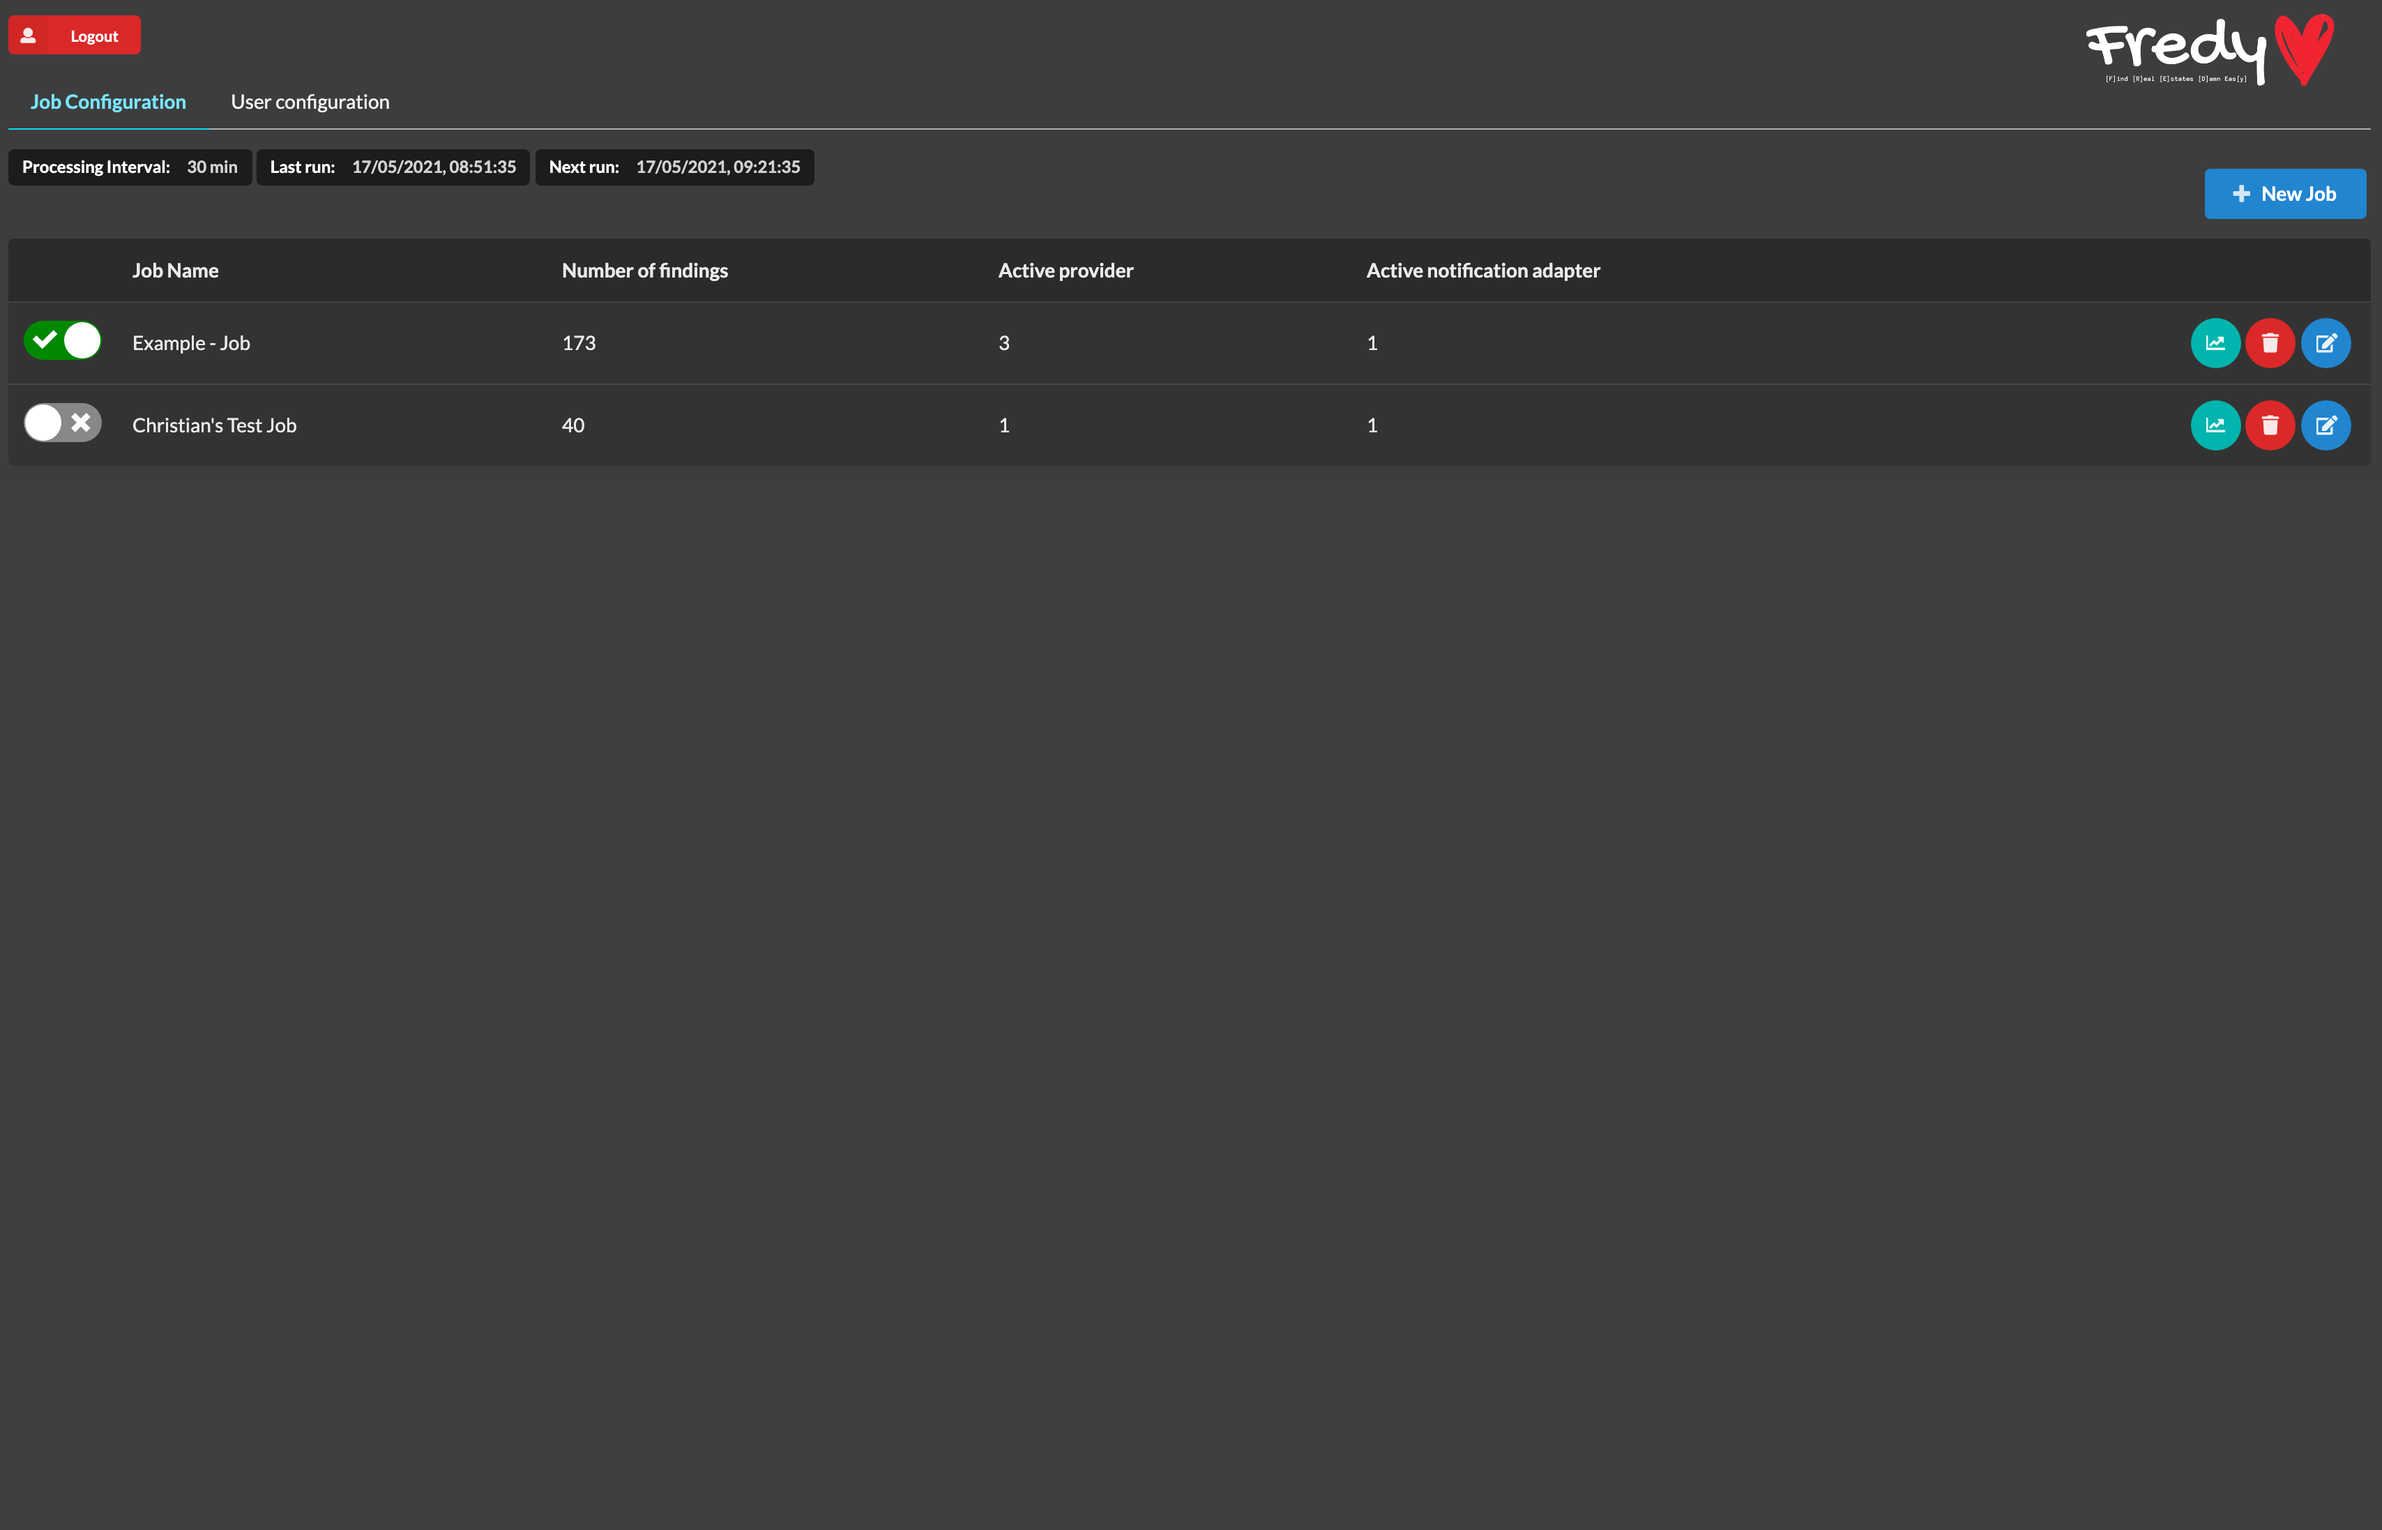
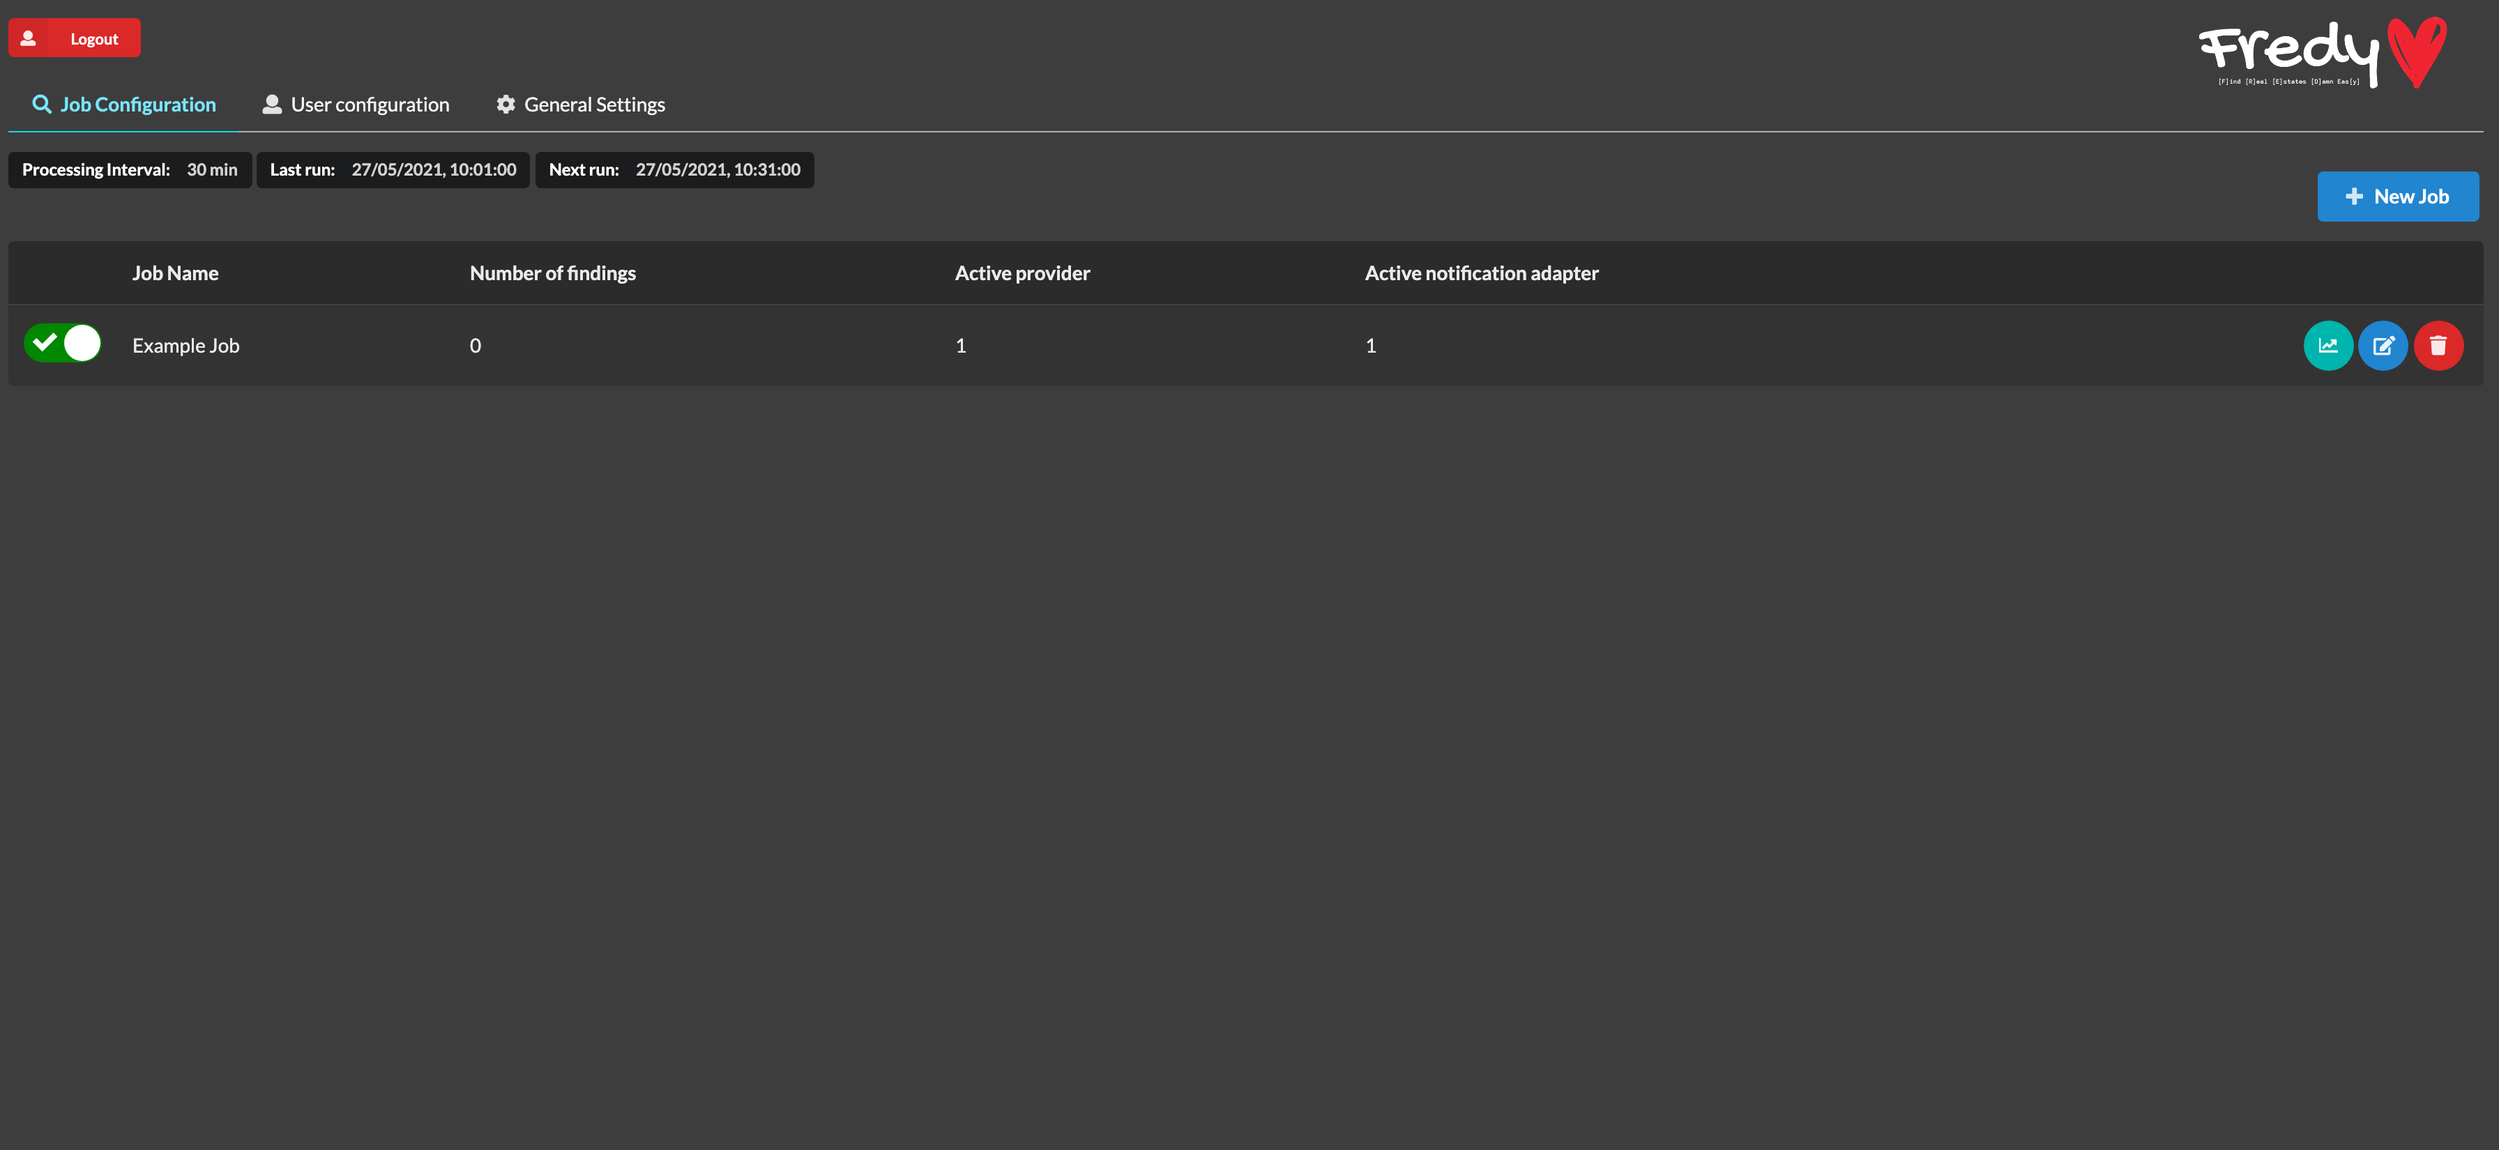
adding tests, making use of new working hours

diff --git a/index.js b/index.js
@@ -13,6 +13,8 @@ const jobStorage = require('./lib/services/storage/jobStorage');
 const { setLastJobExecution } = require('./lib/services/storage/listingsStorage');
 const FredyRuntime = require('./lib/FredyRuntime');
 
+const { duringWorkingHoursOrNotSet } = require('./lib/utils');
+
 //starting the api service
 require('./lib/api/api');
 
@@ -24,31 +26,39 @@ console.log(`Started Fredy successfully. Ui can be accessed via http://localhost
 /* eslint-enable no-console */
 setInterval(
   (function exec() {
-    config.lastRun = Date.now();
-    jobStorage
-      .getJobs()
-      .filter((job) => job.enabled)
-      .forEach((job) => {
-        const providerIds = job.provider.map((provider) => provider.id);
+    const isDuringWorkingHoursOrNotSet = duringWorkingHoursOrNotSet(config, Date.now());
 
-        provider
-          .filter((provider) => provider.endsWith('.js'))
-          .map((pro) => require(`${path}/${pro}`))
-          .filter((provider) => providerIds.indexOf(provider.metaInformation.id) !== -1)
-          .forEach(async (pro) => {
-            const providerId = pro.metaInformation.id;
-            if (providerId == null || providerId.length === 0) {
-              throw new Error('Provider id must not be empty. => ' + pro);
-            }
-            const providerConfig = job.provider.find((jobProvider) => jobProvider.id === providerId);
-            if (providerConfig == null) {
-              throw new Error(`Provider Config for provider with id ${providerId} not found.`);
-            }
-            pro.init(providerConfig, job.blacklist);
-            await new FredyRuntime(pro.config, job.notificationAdapter, providerId, job.id).execute();
-            setLastJobExecution(job.id);
-          });
-      });
+    if (isDuringWorkingHoursOrNotSet) {
+      config.lastRun = Date.now();
+      jobStorage
+        .getJobs()
+        .filter((job) => job.enabled)
+        .forEach((job) => {
+          const providerIds = job.provider.map((provider) => provider.id);
+
+          provider
+            .filter((provider) => provider.endsWith('.js'))
+            .map((pro) => require(`${path}/${pro}`))
+            .filter((provider) => providerIds.indexOf(provider.metaInformation.id) !== -1)
+            .forEach(async (pro) => {
+              const providerId = pro.metaInformation.id;
+              if (providerId == null || providerId.length === 0) {
+                throw new Error('Provider id must not be empty. => ' + pro);
+              }
+              const providerConfig = job.provider.find((jobProvider) => jobProvider.id === providerId);
+              if (providerConfig == null) {
+                throw new Error(`Provider Config for provider with id ${providerId} not found.`);
+              }
+              pro.init(providerConfig, job.blacklist);
+              await new FredyRuntime(pro.config, job.notificationAdapter, providerId, job.id).execute();
+              setLastJobExecution(job.id);
+            });
+        });
+    } else {
+      /* eslint-disable no-console */
+      console.debug('Working hours set. Skipping as outside of working hours.');
+      /* eslint-enable no-console */
+    }
     return exec;
   })(),
   INTERVAL

diff --git a/test/provider/utils.test.js b/test/provider/utils.test.js
@@ -1,5 +1,13 @@
 const utils = require('../../lib/utils');
 const assert = require('assert');
+const expect = require('chai').expect;
+
+const fakeWorkingHoursConfig = (from, to) => ({
+  workingHours: {
+    to,
+    from,
+  },
+});
 
 describe('utils', () => {
   describe('#isOneOf()', () => {
@@ -8,6 +16,24 @@ describe('utils', () => {
     });
     it('should be true', () => {
       assert.equal(utils.isOneOf('bla blub blubber', ['bla']), true);
+    });
+  });
+
+  describe('#duringWorkingHoursOrNotSet()', () => {
+    it('should be false', () => {
+      expect(utils.duringWorkingHoursOrNotSet(fakeWorkingHoursConfig('12:00', '13:00'), 0)).to.be.false;
+    });
+    it('should be true', () => {
+      expect(utils.duringWorkingHoursOrNotSet(fakeWorkingHoursConfig('12:00', '13:00'), 1622026740000)).to.be.true;
+    });
+    it('should be true if nothing set', () => {
+      expect(utils.duringWorkingHoursOrNotSet(fakeWorkingHoursConfig(null, null), 1622026740000)).to.be.true;
+    });
+    it('should be true if only to is set', () => {
+      expect(utils.duringWorkingHoursOrNotSet(fakeWorkingHoursConfig(null, '13:00'), 1622026740000)).to.be.true;
+    });
+    it('should be true if only from is set', () => {
+      expect(utils.duringWorkingHoursOrNotSet(fakeWorkingHoursConfig('12:00', null), 1622026740000)).to.be.true;
     });
   });
 });

diff --git a/lib/utils.js b/lib/utils.js
@@ -8,4 +8,29 @@ function isOneOf(word, arr) {
   return blacklist.test(word);
 }
 
-module.exports = { isOneOf };
+function nullOrEmpty(val) {
+  return val == null || val.length === 0;
+}
+
+function timeStringToMs(timeString, now) {
+  const d = new Date(now);
+  const parts = timeString.split(':');
+  d.setHours(parts[0]);
+  d.setMinutes(parts[1]);
+  d.setSeconds(0);
+  return d.getTime();
+}
+
+function duringWorkingHoursOrNotSet(config, now) {
+  const { workingHours } = config;
+  if (workingHours == null || nullOrEmpty(workingHours.from) || nullOrEmpty(workingHours.to)) {
+    return true;
+  }
+
+  const toDate = timeStringToMs(workingHours.to, now);
+  const fromDate = timeStringToMs(workingHours.from, now);
+
+  return fromDate <= now && toDate >= now;
+}
+
+module.exports = { isOneOf, nullOrEmpty, duringWorkingHoursOrNotSet };

diff --git a/README.md b/README.md
@@ -31,7 +31,7 @@ _Fredy_ will start with the default port, set to `9998`. You can access _Fredy_ 
 ## Immoscout
 I have added **EXPERIMENTAL** support for Immoscout. Immoscout is somewhat special, coz they have decided to secure their service from bots using Re-Capture. Finding a way around this is barely possible. For _Fredy_ to be able to bypass the check, I'm using a service called [ScrapingAnt](https://scrapingant.com/). The trick is to use a headless browser, rotating proxies and (once successful validated) re-send the cookies each time.
 
-To be able to use Immoscout, you need to create an account and copy the apiKey into the config file under /conf/config.json.
+To be able to use Immoscout, you need to create an account at ScrapingAnt. Configure the ApiKey in the "General Settings" tab (visible when logged in as administrator).
 The rest should be done by _Fredy_. Keep in mind, the support is experimental. There might be bugs and you might not always get pass the re-capture check, but most of the time it works pretty good :)
 
 If you need more that the 1000 api calls you can do per month, I'd suggest opting for a paid account... ScrapingAnt loves OpenSource, therefor they've decided to give all _Fredy_ users a 10% discount by using the code **FREDY10** (No I don't get any money for recommending good services...)
